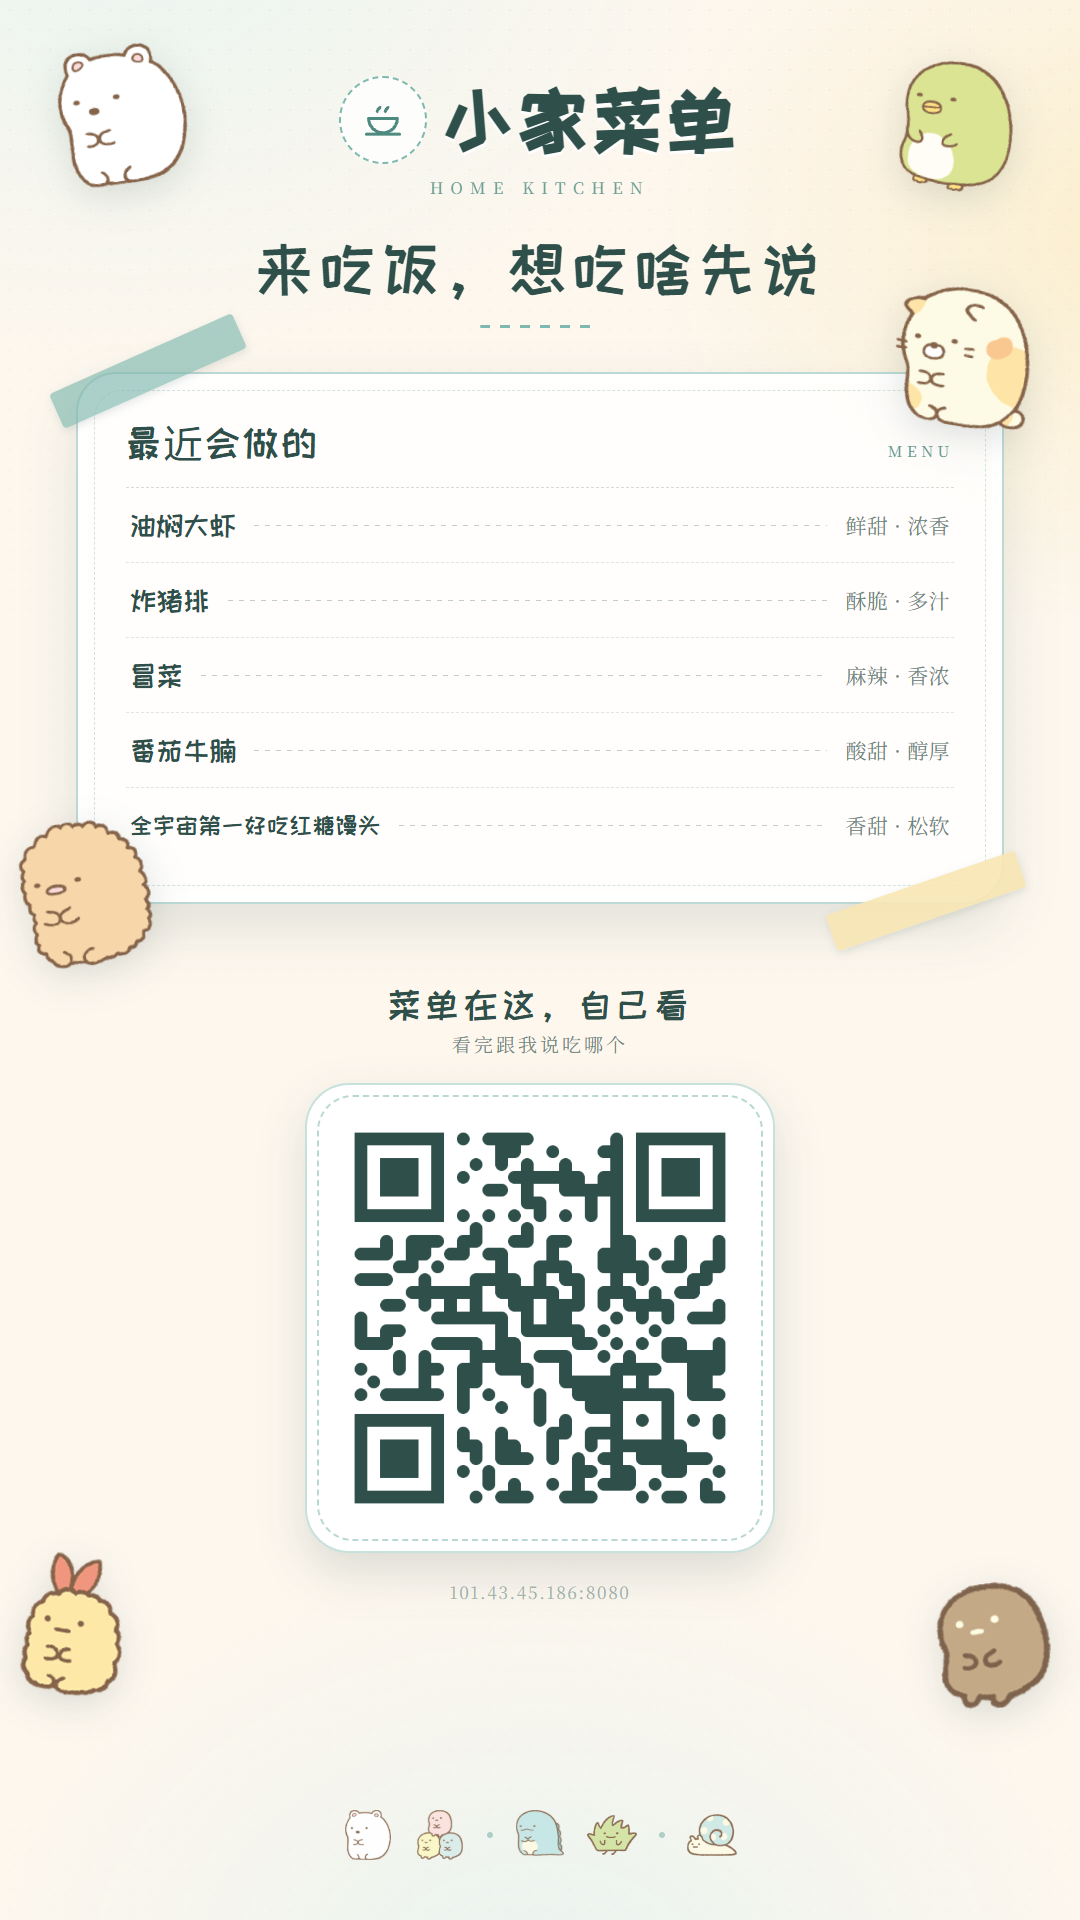
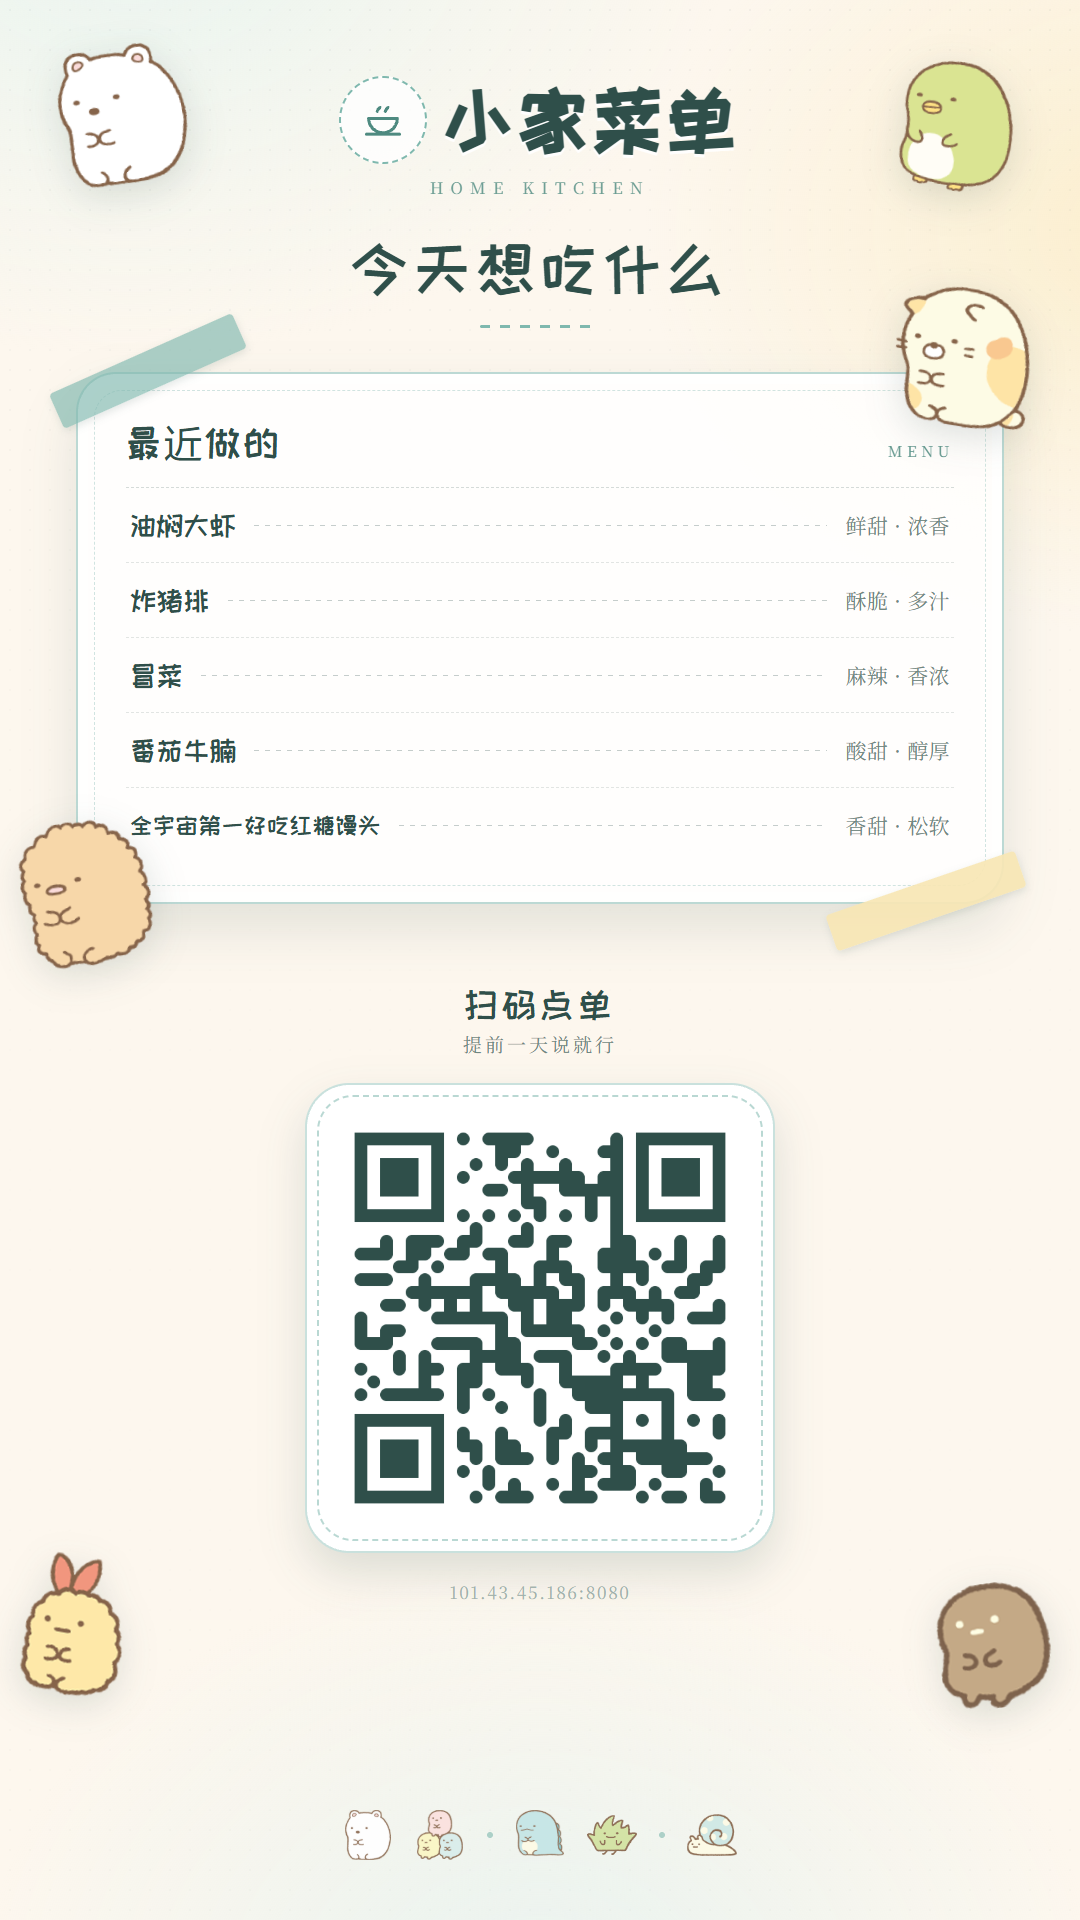
海报语气收回正常餐饮海报：今天想吃什么 / 扫码点单 / 提前一天说就行

Changed region(s): [[0.2444, 0.125, 0.7639, 0.1562], [0.3667, 0.5, 0.6417, 0.5625], [0.1833, 0.2188, 0.3056, 0.25]]

diff --git a/share/poster-vertical-server.html b/share/poster-vertical-server.html
@@ -150,7 +150,7 @@
   </header>
 
   <section class="lead">
-    <div class="big">来吃饭，想吃啥先说</div>
+    <div class="big">今天想吃什么</div>
     
     <div class="rule"></div>
   </section>
@@ -160,7 +160,7 @@
     <span class="tape board-tape2"></span>
     <div class="board">
       <div class="board-head">
-        <span class="t">最近会做的</span>
+        <span class="t">最近做的</span>
         <span class="n">MENU</span>
       </div>
       <div class="row">
@@ -184,8 +184,8 @@
   </section>
 
   <section class="qr-zone">
-    <div class="qr-tip">菜单在这，自己看</div>
-    <div class="qr-sub">看完跟我说吃哪个</div>
+    <div class="qr-tip">扫码点单</div>
+    <div class="qr-sub">提前一天说就行</div>
     <div class="qr-card">
       <img src="qr-server.png" alt="扫码看菜单" />
     </div>
